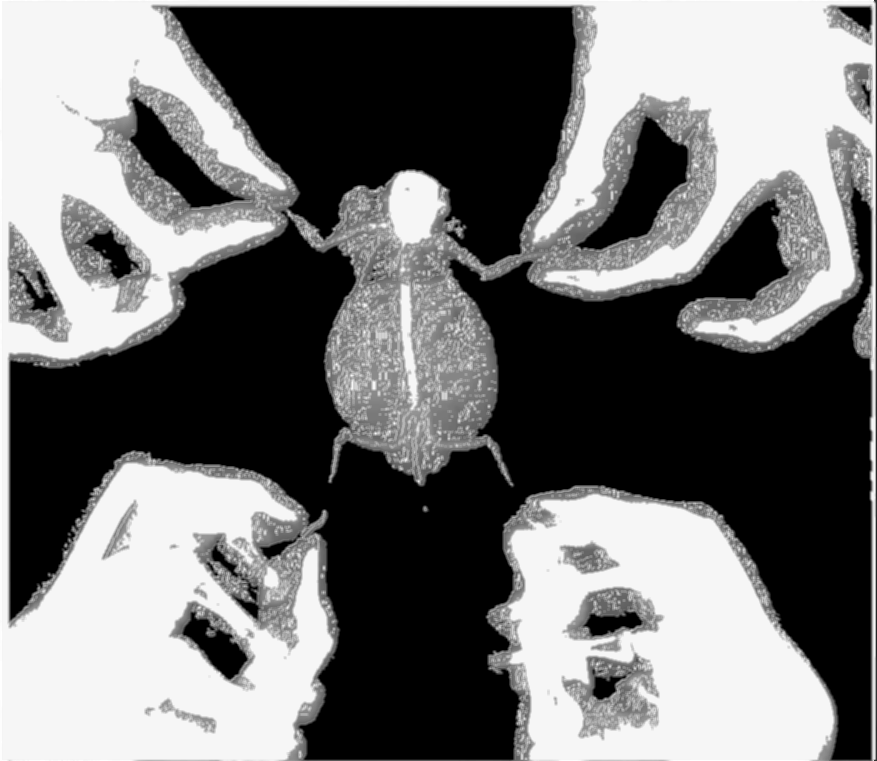
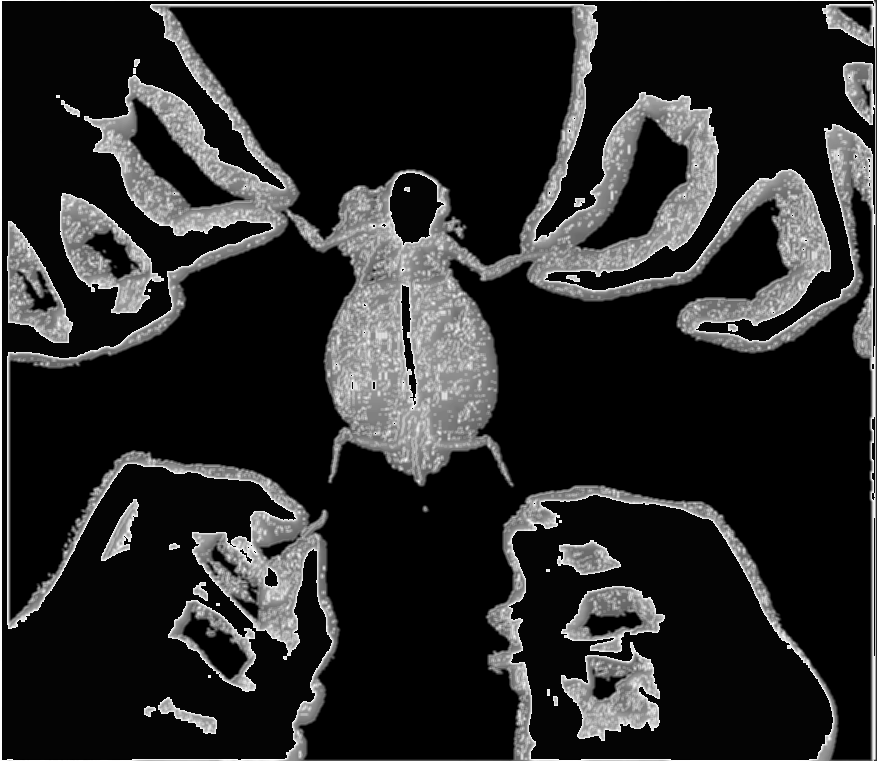
Once more games, with Roberts

diff --git a/work/main.c b/work/main.c
@@ -82,10 +82,10 @@ int main() {
     //Gauss
     for (i = 1; i < ih-1; i++) {
         for (j = 2; j < iw-1; j++) {
-            MyImage[iw*i+j] = 0.1238*newIm[iw*i+j] + 0.1192*newIm[iw*(i+1)+j] + 0.1192*newIm[iw*(i-1)+j];
-            MyImage[iw*i+j] = MyImage[iw*i+j] + 0.1192*newIm[iw*i+(j+1)] + 0.1192*newIm[iw*i+(j-1)];
-            MyImage[iw*i+j] = MyImage[iw*i+j] + 0.0924*newIm[iw*(i+1)+(j+1)] + 0.0924*newIm[iw*(i+1)+(j-1)];
-            MyImage[iw*i+j] = MyImage[iw*i+j] + 0.0924*newIm[iw*(i-1)+(j+1)] + 0.0924*newIm[iw*(i-1)+(j-1)];
+            MyImage[iw*i+j] = 0.1238*newIm[iw*i+j] + 0.1292*newIm[iw*(i+1)+j] + 0.1292*newIm[iw*(i-1)+j];
+            MyImage[iw*i+j] = MyImage[iw*i+j] + 0.1292*newIm[iw*i+(j+1)] + 0.1292*newIm[iw*i+(j-1)];
+            MyImage[iw*i+j] = MyImage[iw*i+j] + 0.0964*newIm[iw*(i+1)+(j+1)] + 0.0964*newIm[iw*(i+1)+(j-1)];
+            MyImage[iw*i+j] = MyImage[iw*i+j] + 0.0964*newIm[iw*(i-1)+(j+1)] + 0.0964*newIm[iw*(i-1)+(j-1)];
         }
     }
 
